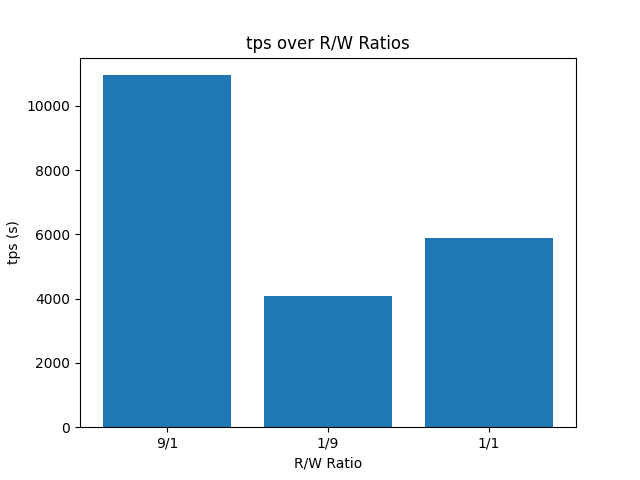
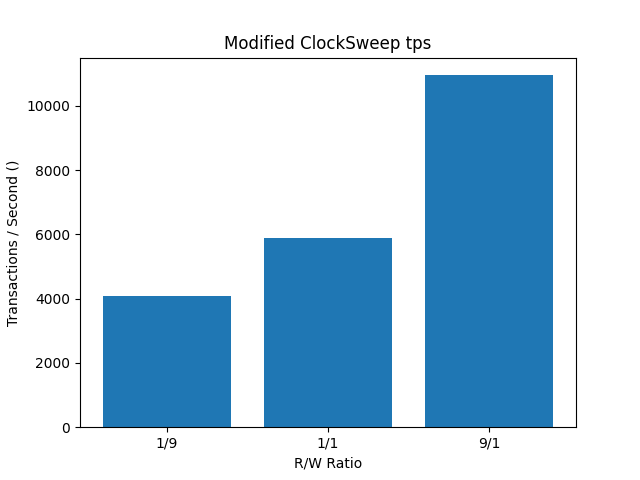
add chart titles

diff --git a/benchmark/generate_plot.py b/benchmark/generate_plot.py
@@ -11,9 +11,10 @@ class ExtractFormat:
     sep: str
     idx: int
     units: str
+    display_name: str
 
 # format = (starting token of line, type of data, index of value of interest in the string (separated by " "))
-TPS = ExtractFormat("tps", float, " ", 2, "s")
+TPS = ExtractFormat("tps", float, " ", 2, "", "Transactions / Second")
 DISPLAY_STATS = [TPS]
 
 # indices of these values in the file names (split by _)
@@ -37,6 +38,7 @@ def main():
     parser = argparse.ArgumentParser()
     parser.add_argument("input", help="location of input files")
     parser.add_argument("output", help="directory to output files to")
+    parser.add_argument("title", help="chart title")
     args = parser.parse_args()
     
     # ensure output dir exists
@@ -76,8 +78,8 @@ def main():
         # save bar chart
         plt.bar(labels, values)
         plt.xlabel('R/W Ratio')
-        plt.ylabel(f'{stat.name} ({stat.units})')
-        plt.title(f"{stat.name} over R/W Ratios")
+        plt.ylabel(f'{stat.display_name} ({stat.units})')
+        plt.title(f"{args.title} {stat.name}")
 
         # Display the chart
         plt.savefig(chart_out)
